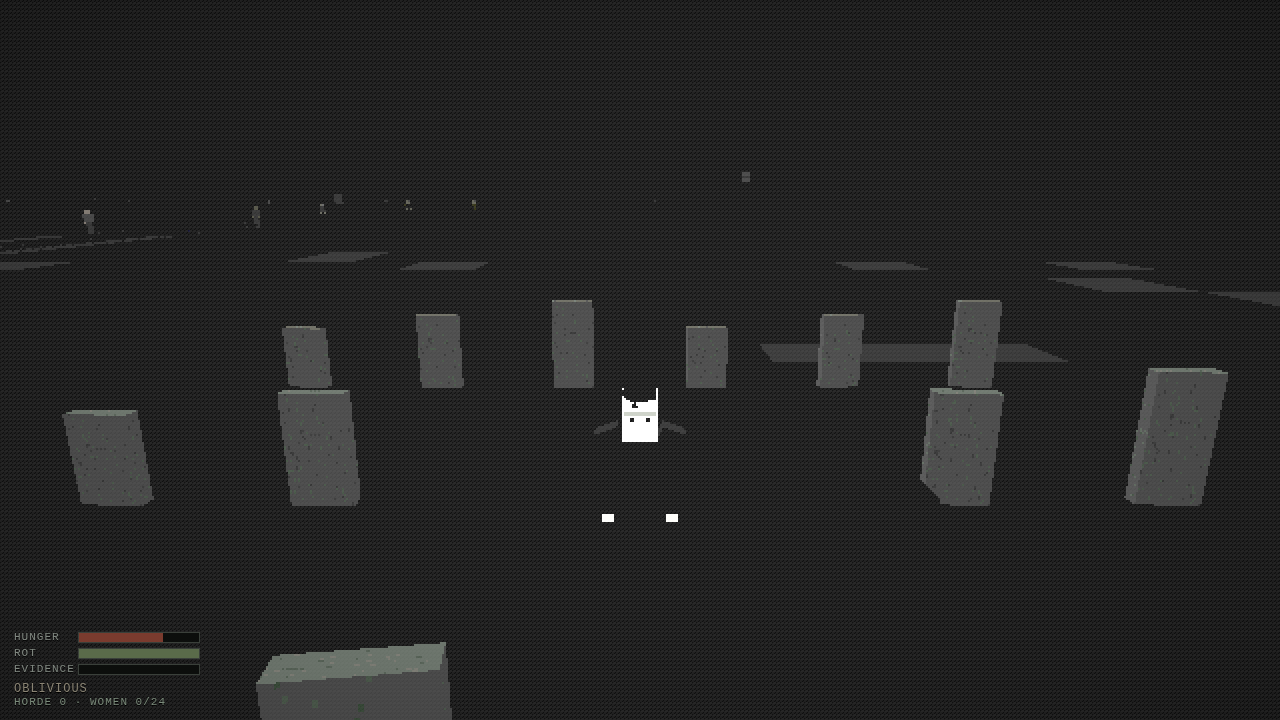
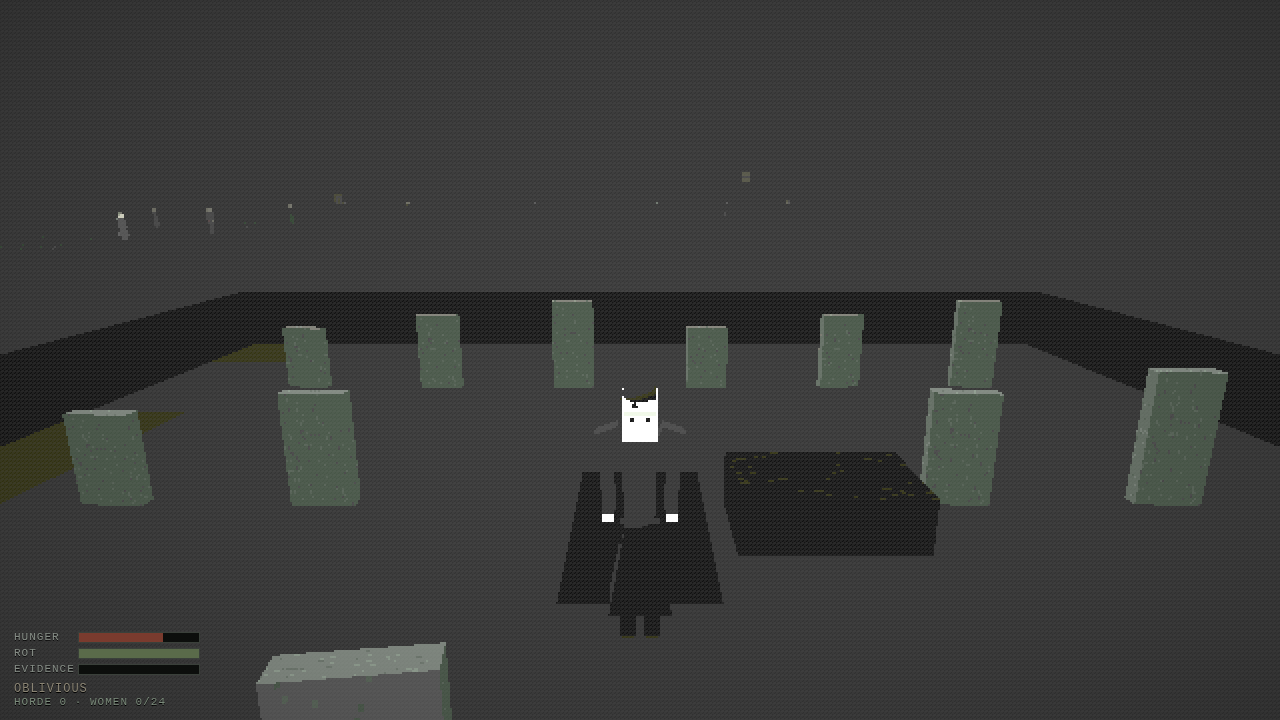
Textured town: procedural 64px nearest-filtered textures (siding/brick/shingle/asphalt/concrete/wood/stone), porches, shutters, lit windows, awning, better lamps; exposure 3.4

diff --git a/src/config.js b/src/config.js
@@ -51,8 +51,8 @@ export const CFG = {
     snapVertex: 1 / 220,       // vertex jitter quantization
     fogColor: 0x0a0b0c,
     fogDensity: 0.022,
-    gradeTint: [2.2, 2.3, 2.1],    // desaturated, faint sick green
-    exposure: 3.0,                   // lift for readable silhouettes
+    gradeTint: [2.7, 2.85, 2.55],  // desaturated, faint sick green
+    exposure: 3.4,                   // heavy lift — PS1 horror is dark but READABLE
     ditherAmount: 1.0,
   },
   npc: {
